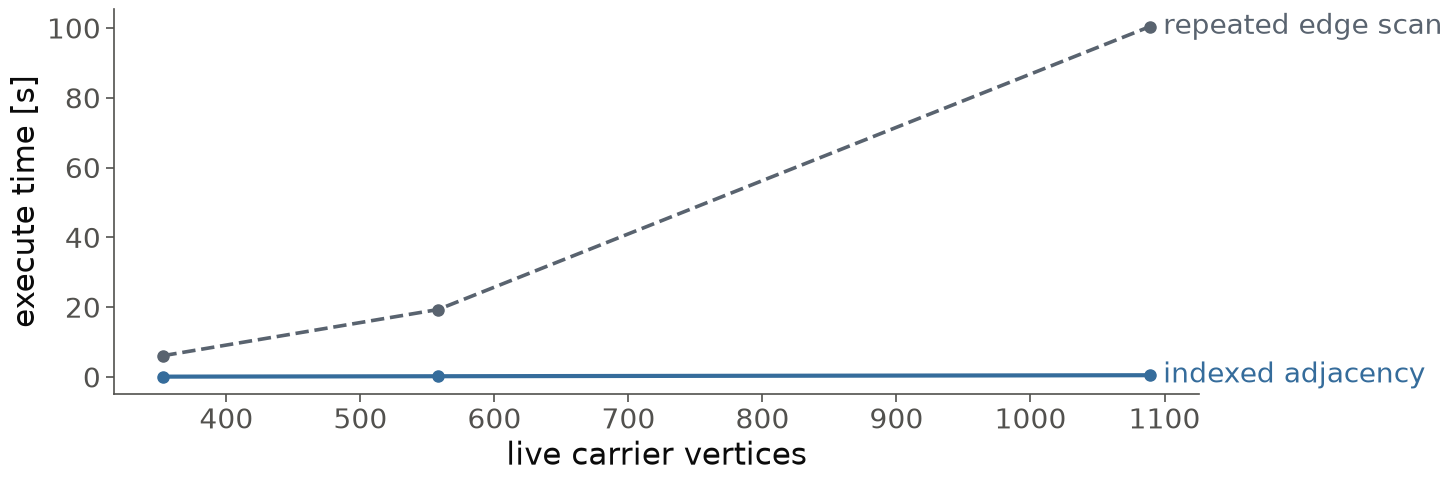
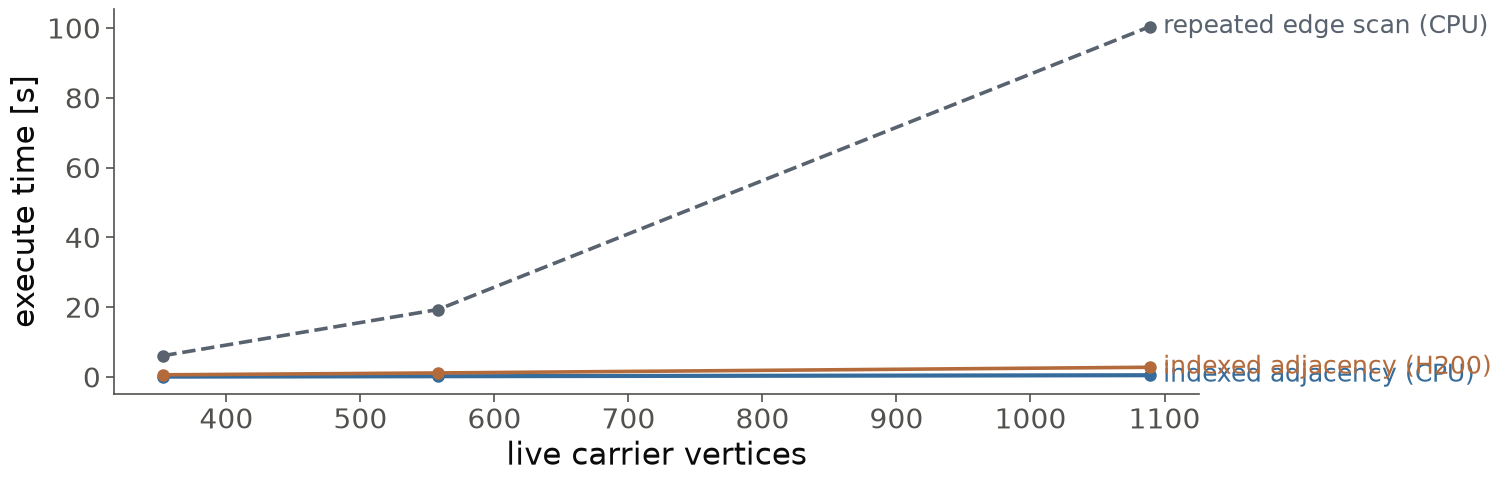
docs(contour-tree): add H200 sweep measure
Record the one-card CUDA timing arm beside the CPU scaling evidence and preserve the lane receipt for all three carrier rungs.

diff --git a/docs/evidence/fragments/contour-tree-topology-authority/ctta-sweep-cost-on-carrier-size.html b/docs/evidence/fragments/contour-tree-topology-authority/ctta-sweep-cost-on-carrier-size.html
@@ -6,16 +6,16 @@
   linear in carrier vertices for bounded-degree carriers, with a visible
   overflow refusal if the fixed adjacency width is exceeded.</p>
   <table>
-    <thead><tr><th>live vertices</th><th>before execute [s]</th><th>after execute [s]</th><th>after compile [s]</th></tr></thead>
+    <thead><tr><th>live vertices</th><th>before CPU execute [s]</th><th>after CPU execute [s]</th><th>after H200 execute [s]</th><th>after H200 compile [s]</th></tr></thead>
     <tbody>
-      <tr><td>353</td><td>6.105</td><td>0.084</td><td>1.412</td></tr>
-      <tr><td>558</td><td>19.320</td><td>0.198</td><td>1.198</td></tr>
-      <tr><td>1089</td><td>100.381</td><td>0.490</td><td>1.553</td></tr>
+      <tr><td>353</td><td>6.105</td><td>0.084</td><td>0.603</td><td>1.964</td></tr>
+      <tr><td>558</td><td>19.320</td><td>0.198</td><td>1.140</td><td>1.405</td></tr>
+      <tr><td>1089</td><td>100.381</td><td>0.490</td><td>2.772</td><td>1.182</td></tr>
     </tbody>
   </table>
   <figure>
-    <img src="/nova/figures/contour-tree-topology-authority/sweep-cost/cpu-execute-seconds.png" alt="CPU contour-tree execute seconds before and after carrier adjacency indexing">
-    <figcaption>Warm CPU execution on the diverted single-null certificate carriers. The indexed sweep rises from 0.084 s at 353 vertices to 0.490 s at 1089 vertices, while the repeated full-edge scan rises from 6.105 s to 100.381 s.</figcaption>
+    <img src="/nova/figures/contour-tree-topology-authority/sweep-cost/cpu-execute-seconds.png" alt="CPU baseline and indexed CPU and H200 contour-tree execute seconds by carrier size">
+    <figcaption>Warm execution on the diverted single-null certificate carriers. The indexed CPU sweep rises from 0.084 s at 353 vertices to 0.490 s at 1089 vertices, while the repeated full-edge CPU scan rises from 6.105 s to 100.381 s. The H200 arm used one CUDA card and records 0.603 s, 1.140 s, and 2.772 s at the same rungs.</figcaption>
   </figure>
   <p>The CPU topology gate passes all 33 merge, mesh, conventions and
   brute-force tests; it covers all twelve certificate rungs, both MAST
